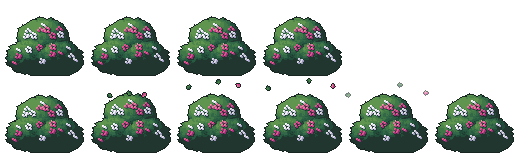
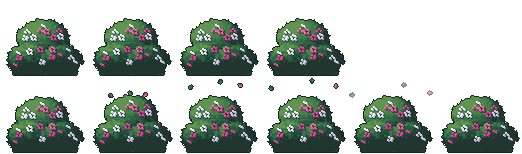
World sprites (in progress): latest sheets from the artists
Snapshot while the artists keep working.

Claude-Session: https://claude.ai/code/session_01E1PN8FTpA19jzx1FNkVfPu

diff --git a/tools/world-sprites/plants.ts b/tools/world-sprites/plants.ts
@@ -397,7 +397,7 @@ function lobeLight(L: Lobe, o: MassOpts, lx: number, ly: number): number {
   const U = clamp((L.x + lx - fx) / frx, -1, 1), V = clamp((L.y + ly - fy) / fry, -1, 1);
   const global = lambert(U * 0.75, V * 0.75, Math.sqrt(Math.max(0.05, 1 - (U * U + V * V) * 0.56)));
   const rim = smooth(0.72, 1.05, d) * 0.16;
-  const ao = smooth(o.ground - fry * 0.95, o.ground, L.y + ly) * 0.3;
+  const ao = smooth(o.ground - fry * 0.95, o.ground, L.y + ly) * 0.24;
   return local * 0.55 + global * 0.55 - rim - ao + (o.bias ?? 0) - 0.06;
 }
 /** Value thresholds between the seven greens (steps 1..7). */
@@ -407,13 +407,15 @@ const massStep = (v: number): number => 1 + MASS_TH.filter((t) => v > t).length;
 /** True if lobe-local (lx, ly) is inside the lobe's ragged, leafy edge. */
 function inLobe(L: Lobe, lx: number, ly: number, seed: number): boolean {
   const d = Math.hypot(lx / L.r, ly / L.ry);
-  if (d > 1.2) return false;
-  if (d < 0.8) return true;
+  if (d > 1.25) return false;
+  if (d < 0.72) return true;
   const th = Math.atan2(ly, lx);
   const R = 1 / Math.hypot(Math.cos(th) / L.r, Math.sin(th) / L.ry);
-  const bin = Math.floor(((th + Math.PI) * R) / 2.4);
-  const jag = hash(bin, 0, seed) * 2.4 + noise((th + Math.PI) * R, 0, 7, seed + 3) * 1.6;
-  return (d - 1) * R < 1.4 - jag;
+  // Leafy bumps 2-3 px wide along the rim; the underside stays fuller so the base sits on the ground.
+  const bin = Math.floor(((th + Math.PI) * R) / 2.5);
+  const under = smooth(0.2, 0.8, Math.sin(th));
+  const jag = (hash(bin, 0, seed) * 3.2 + noise((th + Math.PI) * R, 0, 6, seed + 3) * 2.4) * (1 - under * 0.7);
+  return (d - 1) * R < 1.6 - jag;
 }
 
 /**
@@ -435,23 +437,24 @@ function drawMass(b: Buf, lobes: Lobe[], o: MassOpts, offs: [number, number][] =
       });
       if (owner < 0) continue;
       const L = lobes[owner], sd = o.seed * 31 + owner * 17;
-      const v = lobeLight({ ...L, x: Math.round(L.x), y: Math.round(L.y) }, o, lx, ly) + dab(lx, ly, 3.1, sd) * 0.075 + dab(lx + 37, ly + 11, 5.4, sd + 5) * 0.065;
+      const v = lobeLight({ ...L, x: Math.round(L.x), y: Math.round(L.y) }, o, lx, ly) + dab(lx, ly, 2.7, sd) * 0.11 + dab(lx + 37, ly + 11, 4.8, sd + 5) * 0.08;
       b.put(x, y, BUSH, massStep(v), owner, L.z);
     }
   // The shaded underside: between the lobes that reach the ground, dark leaves fill down to it, so
   // the bush sits on a broad base.
   let xl = Infinity, xr = -Infinity;
   for (let x = 0; x < b.w; x++)
-    if (b.has(x, o.ground)) {
-      xl = Math.min(xl, x);
-      xr = Math.max(xr, x);
-    }
-  for (let x = xl + 1; x < xr; x++) {
+    for (let y = o.ground - 3; y <= o.ground; y++)
+      if (b.has(x, y)) {
+        xl = Math.min(xl, x);
+        xr = Math.max(xr, x);
+      }
+  for (let x = xl; x <= xr; x++) {
     let y = o.ground;
     while (y > o.ground - 14 && !b.has(x, y)) y--;
     if (!b.has(x, y)) continue;
     const i = y * b.w + x;
-    for (let yy = y + 1; yy <= o.ground; yy++) b.put(x, yy, BUSH, 1, b.part[i], b.depth[i]);
+    for (let yy = y + 1; yy <= o.ground; yy++) b.put(x, yy, BUSH, 1 + (hash(x, yy, o.seed) < 0.3 ? 1 : 0), b.part[i], b.depth[i]);
   }
 }
 
@@ -573,9 +576,9 @@ function roundBush(): BushSpec {
   // One round mass: a crown lobe behind, two front lobes that meet low in the middle.
   const lobes = lobesFrom(
     [
-      [-2, 40, 25, 22],
-      [-13, 19, 22, 20],
-      [14, 18, 22, 19],
+      [-1, 37, 27, 24],
+      [-12, 17, 23, 19],
+      [14, 16, 22, 18],
     ],
     gx,
     ground,
@@ -600,10 +603,10 @@ function wideBush(): BushSpec {
   // A long, low mound: a high crown left of center, a lower one to the right, two front lobes.
   const lobes = lobesFrom(
     [
-      [-20, 29, 29, 20],
-      [26, 25, 27, 18],
-      [-31, 14, 24, 16],
-      [16, 13, 30, 15],
+      [-18, 28, 31, 21],
+      [26, 24, 28, 18],
+      [-31, 12, 24, 14],
+      [16, 11, 31, 13],
     ],
     gx,
     ground,
@@ -627,9 +630,9 @@ function azaleaBush(): BushSpec {
   const top = ground - hgt;
   const lobes = lobesFrom(
     [
-      [-1, 37, 26, 19],
-      [-15, 17, 23, 18],
-      [16, 16, 23, 17],
+      [-1, 35, 27, 20],
+      [-14, 15, 24, 17],
+      [16, 14, 23, 16],
     ],
     gx,
     ground,
@@ -665,14 +668,14 @@ function azaleaBush(): BushSpec {
       const [ox, oy] = offs[tr.li] ?? [0, 0];
       const cx = Math.round(L.x), cy = Math.round(L.y);
       const tx = cx + ox + tr.x, ty = cy + oy + tr.y;
+      if (b.partAt(tx, ty) !== tr.li) return;
       const lit = lobeLight({ ...L, x: cx, y: cy }, opts, tr.x, tr.y);
       const base = lit > 0.62 ? 3 : 2;
       const mat = tr.white ? WHITE : PINK;
       tr.flowers.forEach(([fx, fy], fi) => {
         for (const [dx, dy, dl] of FLOWER) {
           const x = tx + fx + dx, y = ty + fy + dy;
-          // Only on this lobe's own visible face (never over a lobe in front).
-          if (b.partAt(x, y) !== tr.li && b.partAt(x, y) < 100) continue;
+          if (!b.has(x, y)) continue;
           let st = base + dl;
           if (fi === 0 && dx === -1 && dy === -1 && lit > 0.66) st = 5;
           b.put(x, y, mat, clamp(st, 1, 5), 100 + k, L.z + 0.3);

diff --git a/tools/world-sprites/animals.ts b/tools/world-sprites/animals.ts
@@ -1457,7 +1457,7 @@ function crow(): WorldSprite {
     head: { c: [7.0, -15.6], r: [3.8, 3.4] },
     beak: { ...S.beak, base: [9.6, -15.6], a: 0.1 },
     tail: { ...S.tail, tip: [-15.4, -5.0] },
-    wing: { ...S.wing, base: [4.2, -12.8], tip: [-11.6, -6.4] },
+    wing: { w: 3.4, base: [4.2, -12.8], tip: [-11.6, -6.4] },
     eye: [7.8, -16.6],
   };
   const caw: BirdPose = {
